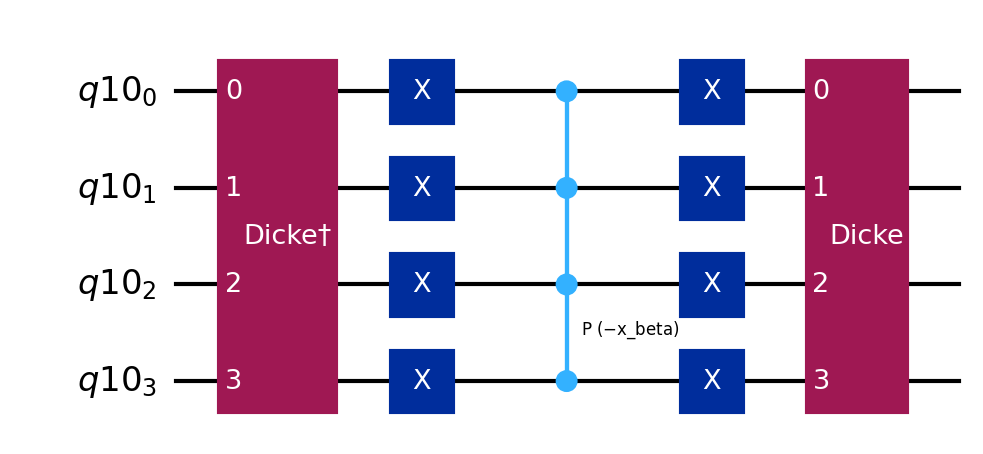
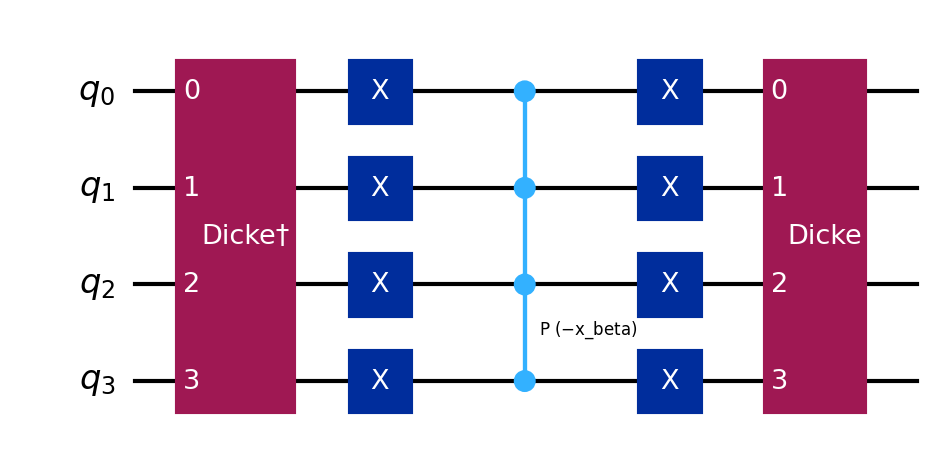
Fix Grover circuit drawing: labeled Dicke†/Dicke boxes and clean register names

diff --git a/unittests/test_mixers_initialstates.py b/unittests/test_mixers_initialstates.py
@@ -49,6 +49,32 @@ class TestGroverMixer(unittest.TestCase):
         mixer.create_circuit()
         self.assertGreater(len(mixer.circuit.parameters), 0)
 
+    def test_grover_shows_labeled_subcircuit_instructions(self):
+        """Grover circuit should show US† and US as labeled instructions."""
+        from qaoa.mixers import Grover
+        from qaoa.initialstates import Dicke
+
+        grover = Grover(Dicke(2))
+        grover.create_circuit()
+        labels = [
+            getattr(instr.operation, "label", None)
+            for instr in grover.circuit.data
+        ]
+        # The first instruction should be US† labelled "Dicke†"
+        self.assertEqual(labels[0], "Dicke\u2020")
+        # The last instruction should be US labelled "Dicke"
+        self.assertEqual(labels[-1], "Dicke")
+
+    def test_grover_circuit_register_name(self):
+        """Grover circuit should use the register name 'q' for clean qubit labels."""
+        from qaoa.mixers import Grover
+        from qaoa.initialstates import Dicke
+
+        grover = Grover(Dicke(2))
+        grover.create_circuit()
+        reg_names = {q._register.name for q in grover.circuit.qubits}
+        self.assertEqual(reg_names, {"q"})
+
 
 class TestXMultiAngleMixer(unittest.TestCase):
     """Tests for the XMultiAngle mixer."""

diff --git a/qaoa/initialstates/tensor_initialstate.py b/qaoa/initialstates/tensor_initialstate.py
@@ -50,7 +50,7 @@ class Tensor(InitialState):
         sub_label = getattr(self.subcircuit, "label", self.subcircuit.__class__.__name__)
         sub_instr = self.subcircuit.circuit.to_instruction(label=sub_label)
 
-        qr = QuantumRegister(self.N_qubits)
+        qr = QuantumRegister(self.N_qubits, name="q")
         self.circuit = QuantumCircuit(qr)
         n = self.subcircuit.N_qubits
         for i in range(self.num):

diff --git a/qaoa/mixers/grover_mixer.py b/qaoa/mixers/grover_mixer.py
@@ -63,7 +63,7 @@ class Grover(Mixer):
         sub_label = getattr(self.subcircuit, "label", self.subcircuit.__class__.__name__)
         n = self.subcircuit.N_qubits
 
-        qr = QuantumRegister(n)
+        qr = QuantumRegister(n, name="q")
         self.circuit = QuantumCircuit(qr)
 
         # US^\dagger — shown as a labelled box (e.g. "Dicke†")

diff --git a/README.md b/README.md
@@ -171,25 +171,36 @@ Assuming all-to-all connectivity of qubits, one can minimize the depth of the ci
 
 Components can be freely composed ("lego style") to build more complex circuits without needing to configure qubit counts manually.
 
-For example, a Grover mixer over 3 independent Dicke-2 sub-registers can be assembled like this:
+For example, a Grover mixer over 3 independent Dicke sub-registers (each with 4 qubits, Hamming weight k=2) can be assembled like this:
 
 	from qaoa import initialstates, mixers
 
-	dicke  = initialstates.Dicke(2)       # Dicke state with k=2 excitations
-	grover = mixers.Grover(dicke)          # Grover mixer over the Dicke feasible space
-	tensor = initialstates.Tensor(grover, 3)  # 3 independent copies (6 qubits total)
+	dicke  = initialstates.Dicke(2)        # Dicke state with k=2 excitations
+	dicke.setNumQubits(4)                   # 4-qubit register per block
+	grover = mixers.Grover(dicke)           # Grover mixer over the Dicke feasible space
+	tensor = initialstates.Tensor(grover, 3)  # 3 independent copies (12 qubits total)
 
 	tensor.create_circuit()
 	tensor.circuit.draw('mpl')
 
-`Dicke(k)` automatically sets `N_qubits = k` (the minimum needed register), and
-`Grover` inherits that qubit count from its sub-circuit, so no explicit
-`setNumQubits` call is required.
+`Grover` inherits the qubit count from its sub-circuit, so no extra `setNumQubits`
+call is needed for the mixer itself.
 
-![Lego circuit](images/lego_circuit.png "Lego circuit: three Grover blocks on 6 qubits")
+![Lego circuit](images/lego_circuit.png "Lego circuit: three Grover blocks on 12 qubits")
 
 Each sub-circuit is shown as a labelled block in the drawing so the "lego" structure
 is immediately visible.
+
+To inspect the internal structure of a single Grover block, draw it directly:
+
+	grover.create_circuit()
+	grover.circuit.draw('mpl')
+
+![Grover circuit](images/grover_circuit.png "Grover mixer: Dicke† – X^n – C^{n-1}Phase – X^n – Dicke")
+
+The Grover mixer is constructed as U_S† X^n C^{n-1}P X^n U_S, where the Dicke
+state-preparation circuit U_S and its inverse are each shown as a single labelled
+box (`Dicke†` / `Dicke`).
 
 ### Annotating circuits
 
